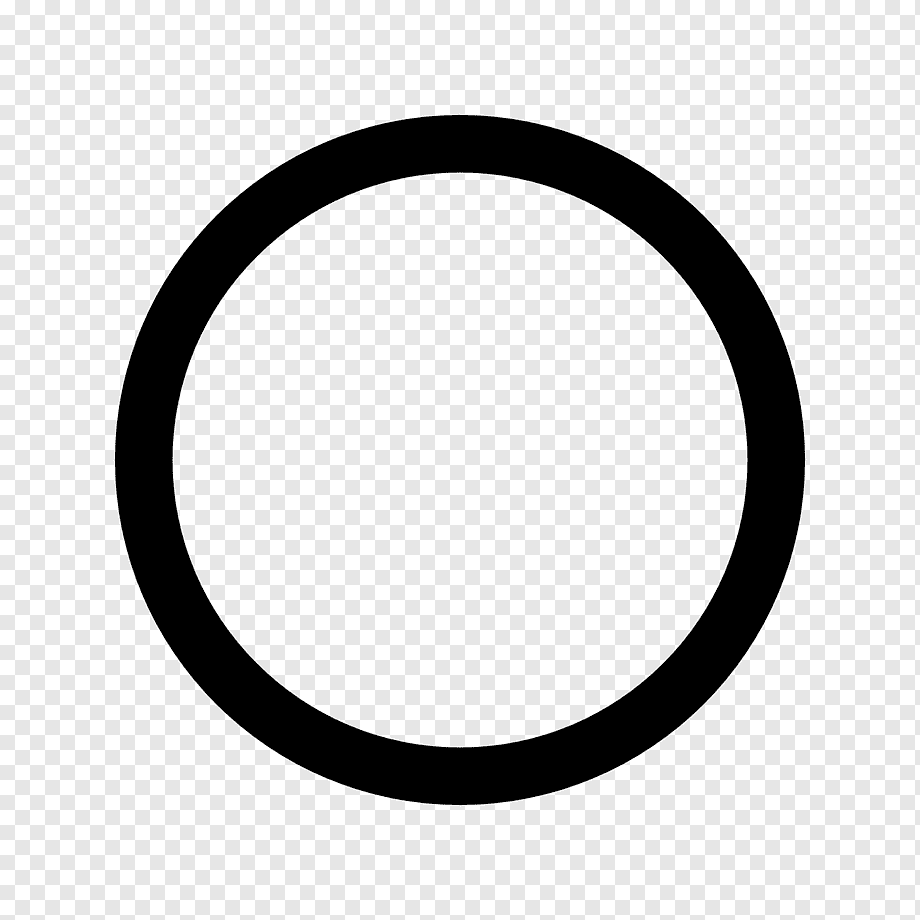
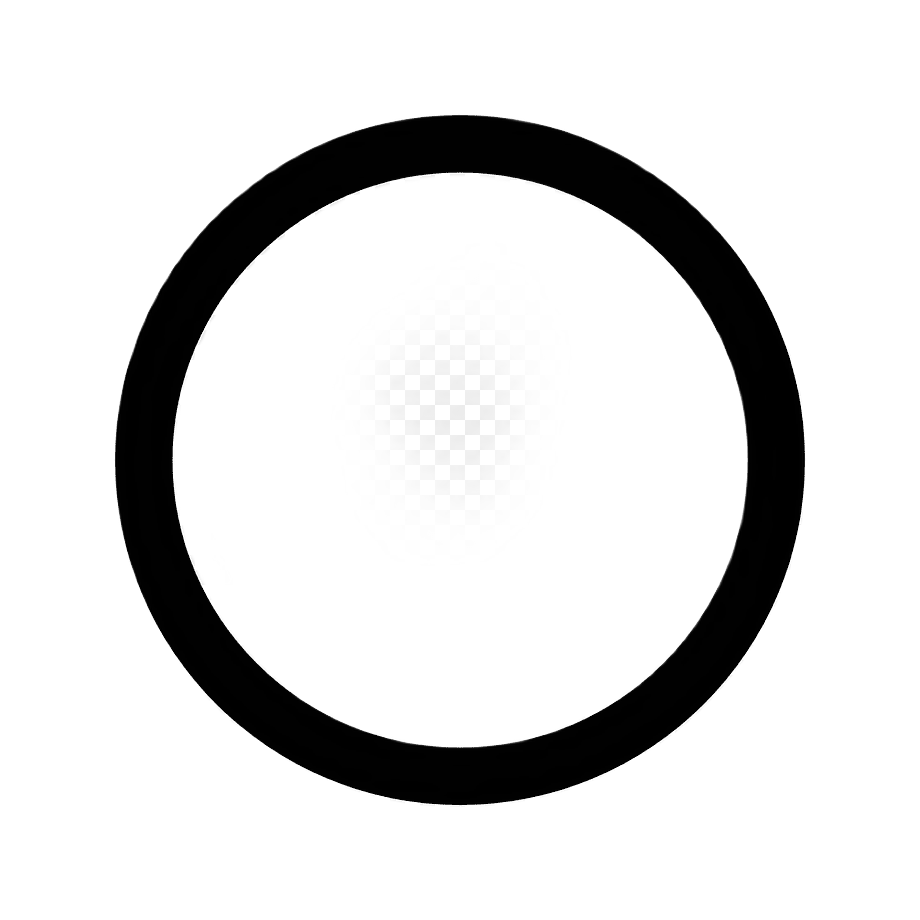
V0.5 Melhorar os icones da lua. Feito.

diff --git a/index.html b/index.html
@@ -71,7 +71,7 @@
     <div class="content has-text-centered">
       <p>
         <strong>Maré de Salinas App</strong> desenvolvido por <a href="sobre.html">Lennon Sales Furtado</a>. <br>
-        <i>Versão 0.4</i><small> - Sugestões ou apoio e-mail e pix: <a href="mailto:lennonsfurtado@gmail.com?subject = Sugestões(MePaga)&body = Gostaria de sugerir:">lennonsfurtado@gmail.com</a> </small>
+        <i>Versão 0.5</i><small> - Sugestões ou apoio e-mail e pix: <a href="mailto:lennonsfurtado@gmail.com?subject = Sugestões(MePaga)&body = Gostaria de sugerir:">lennonsfurtado@gmail.com</a> </small>
       </p>
     </div>
   </footer>

diff --git a/index.js b/index.js
@@ -1,6 +1,6 @@
 window.onload = function(){
     GetDay();
-    // GetDayTides("19",Meses[2]);
+    // GetDayTides("11",Meses[2]);
 };
 
 function GetDay(){    
